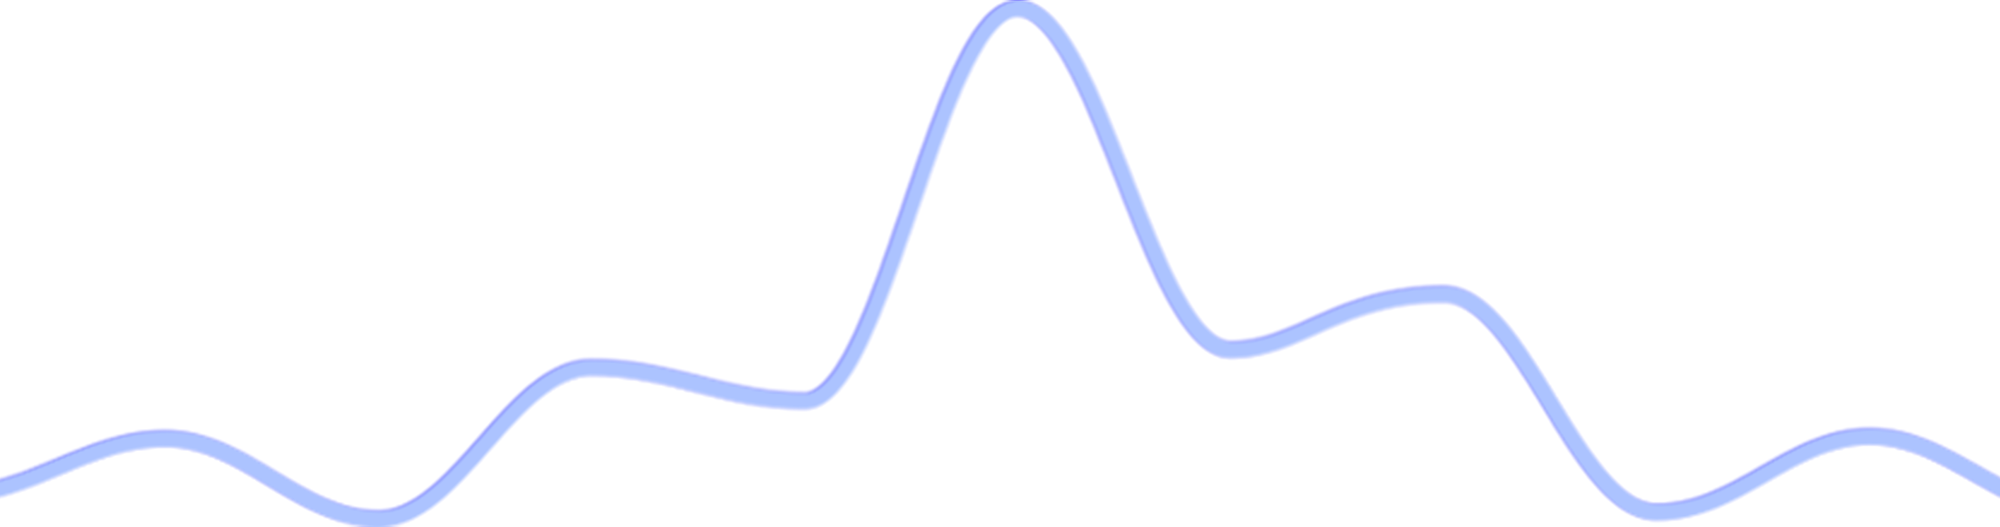
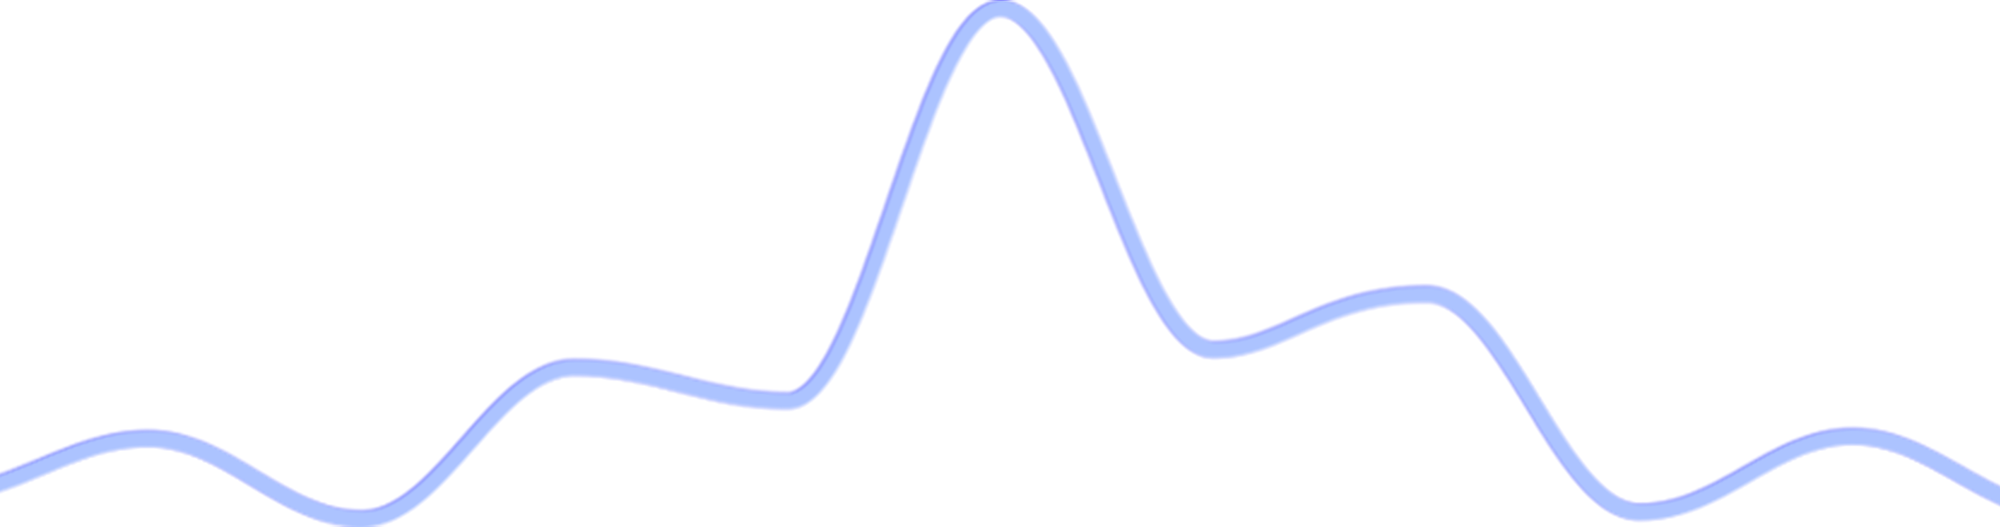
change position graph image in header

Changed region(s): [[0.0, 0.0, 1.0, 1.0], [0.062, 0.7894, 0.093, 0.8197]]

diff --git a/source/styles/modules/layout-base-1.header.less b/source/styles/modules/layout-base-1.header.less
@@ -88,7 +88,7 @@
       height: auto;
       position: absolute;
       top: 200px;
-      left: -272px;
+      left: -247px;
       margin: auto;
     }
 
@@ -135,7 +135,7 @@
         top: 607px;
         left: 0;
         right: 0;
-        margin: auto;
+        margin: -68px auto;
       }
     }
   }

diff --git a/source/styles/pages/home.less b/source/styles/pages/home.less
@@ -615,7 +615,7 @@
   position: relative;
 
   #overlay {
-    display: none;
+    // display: none;
     position: absolute;
     top: 0;
     left: 0;
